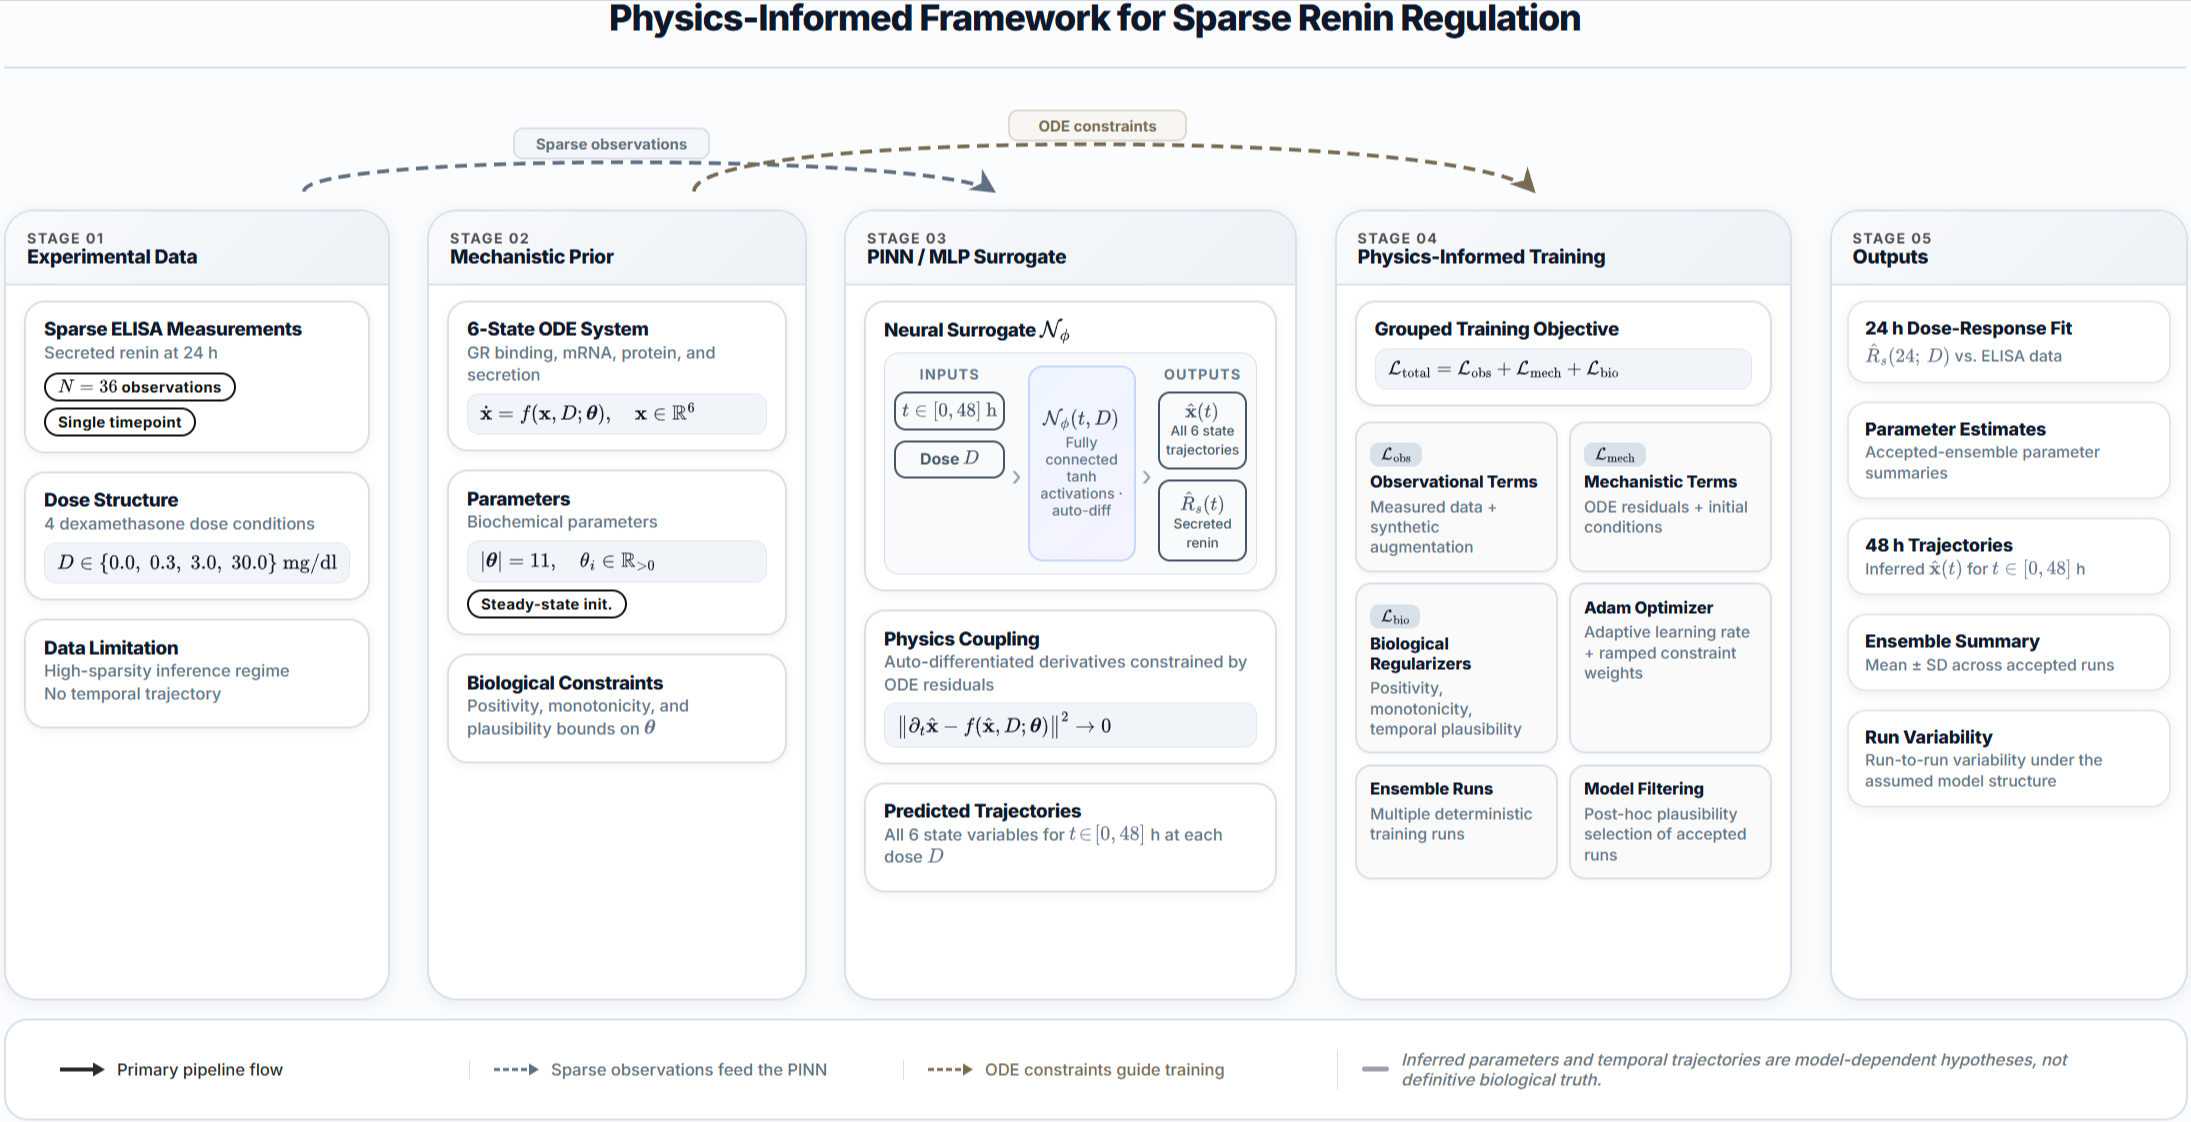
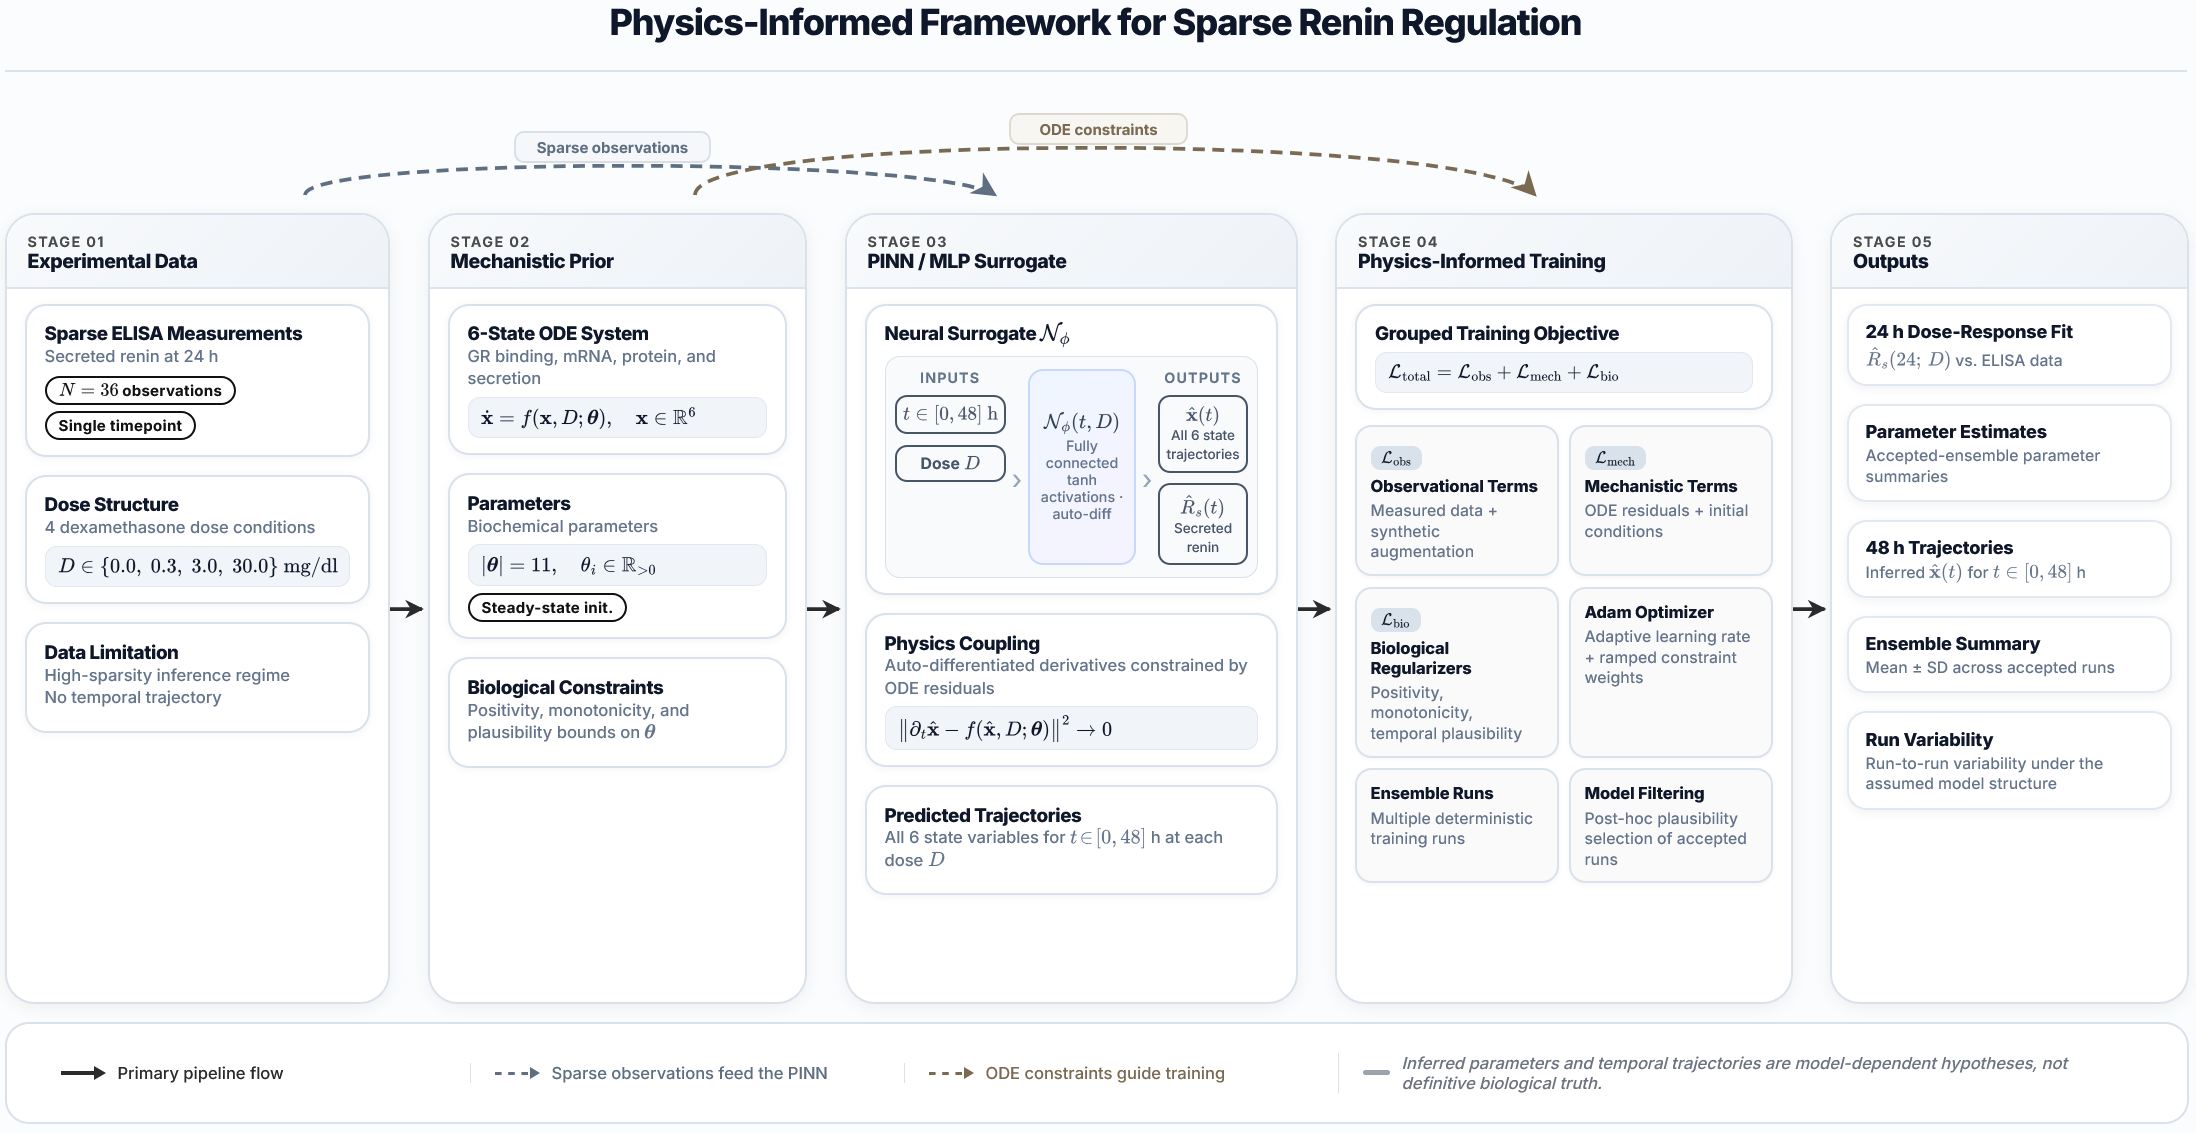
Add files via upload

diff --git a/results/framework_diagram.html b/results/framework_diagram.html
@@ -270,7 +270,7 @@
     <!-- ═══════════════════════════════════════════════ SVG ARROWS ═══ -->
     <svg class="arrows" viewBox="0 0 1456 675" xmlns="http://www.w3.org/2000/svg">
       <defs>
-        <marker id="mNavy" viewBox="0 0 12 12" refX="10" refY="6" markerWidth="9" markerHeight="9" orient="auto-start-reverse">
+        <marker id="mNavy" viewBox="0 0 12 12" refX="10" refY="6" markerWidth="6" markerHeight="6" orient="auto-start-reverse">
           <path d="M1 1 L11 6 L1 11 L4 6z" fill="#2B2B2B"/>
         </marker>
         <marker id="mTeal" viewBox="0 0 12 12" refX="10" refY="6" markerWidth="8" markerHeight="8" orient="auto-start-reverse">
@@ -290,15 +290,15 @@
         </filter>
       </defs>
 
-      <!-- ── Main flow arrows (curved bezier) ── -->
+      <!-- ── Main flow arrows (visible between columns) ── -->
       <!-- C1 → C2 -->
-      <path d="M258,332 C268,332 272,332 282,332" stroke="#2B2B2B" stroke-width="3" fill="none" marker-end="url(#mNavy)" filter="url(#glow)"/>
+      <path d="M245,332 L278,332" stroke="#2B2B2B" stroke-width="2.5" fill="none" marker-end="url(#mNavy)" filter="url(#glow)"/>
       <!-- C2 → C3 -->
-      <path d="M536,332 C546,332 550,332 560,332" stroke="#2B2B2B" stroke-width="3" fill="none" marker-end="url(#mNavy)" filter="url(#glow)"/>
+      <path d="M523,332 L556,332" stroke="#2B2B2B" stroke-width="2.5" fill="none" marker-end="url(#mNavy)" filter="url(#glow)"/>
       <!-- C3 → C4 -->
-      <path d="M862,332 C872,332 876,332 886,332" stroke="#2B2B2B" stroke-width="3" fill="none" marker-end="url(#mNavy)" filter="url(#glow)"/>
+      <path d="M850,332 L883,332" stroke="#2B2B2B" stroke-width="2.5" fill="none" marker-end="url(#mNavy)" filter="url(#glow)"/>
       <!-- C4 → C5 -->
-      <path d="M1192,332 C1202,332 1206,332 1216,332" stroke="#2B2B2B" stroke-width="3" fill="none" marker-end="url(#mNavy)" filter="url(#glow)"/>
+      <path d="M1180,332 L1213,332" stroke="#2B2B2B" stroke-width="2.5" fill="none" marker-end="url(#mNavy)" filter="url(#glow)"/>
 
       <!-- ── Cross-stage curved feeds ── -->
       <!-- Sparse data → PINN (blue arc over top) -->
